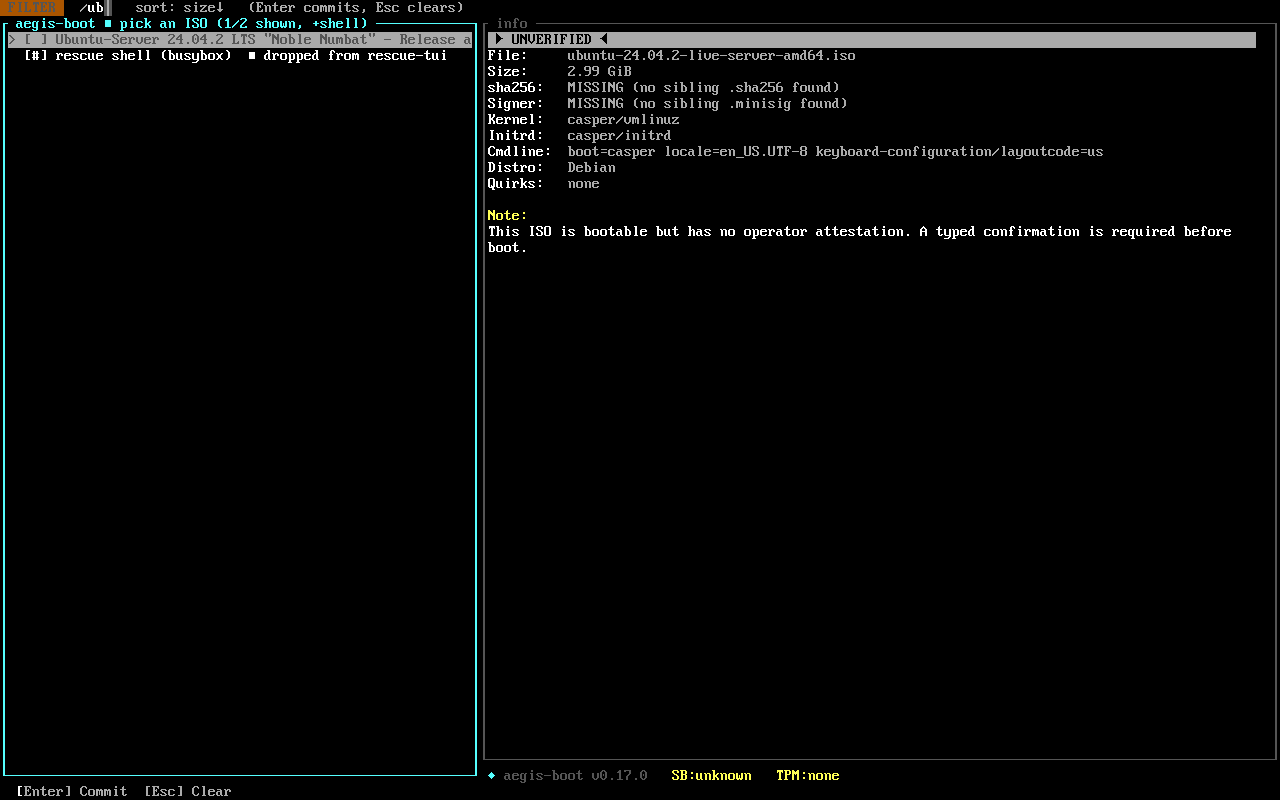
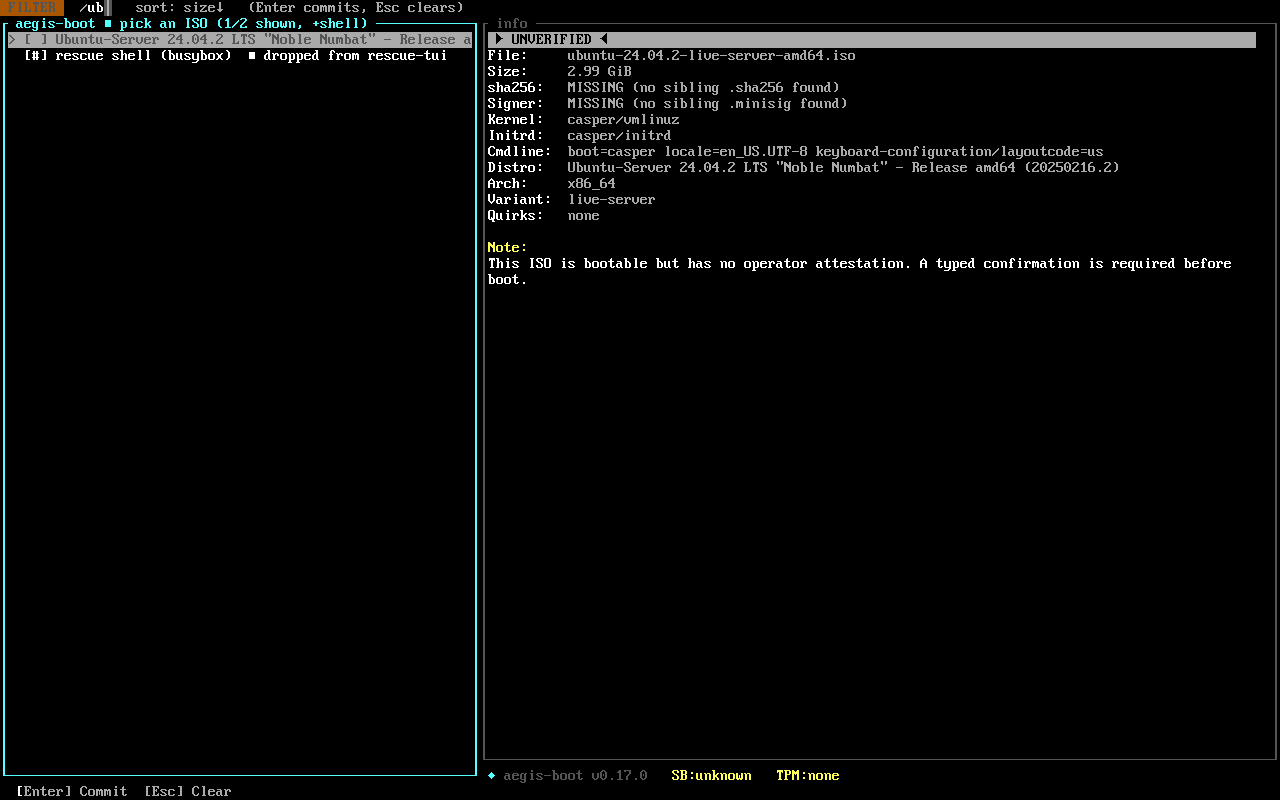
feat(rescue-tui): info pane shows pretty_name, Arch, Variant for boot confirmation
Operator feedback (during the TUI layout pass): "I'm ok with the info
pane including the OS information about the selected ISO like Distro
version etc so it's easier to ensure you selected the right one like
x86 vs ARM etc — also since it can display a lot more information
vertically."

This PR enriches `info_pane_iso_lines` with three additions:

1. **Distro** line now prefers `iso.pretty_name` (parsed by iso-probe
   from `/etc/os-release` / `/.disk/info` / `/etc/alpine-release`,
   #119) over the bare `Distribution::Variant` debug label. Operators
   see "Ubuntu 24.04.2 LTS (Noble Numbat) - Release amd64
   (20250216.2)" instead of "Ubuntu". Falls back to the enum name
   when pretty_name is None (older installers, unfamiliar layouts).

2. **Arch** line — new. Parses x86_64 / arm64 / riscv64 / ppc64le /
   s390x / i686 from the ISO filename. Catches "I picked the arm64
   build instead of the amd64" pre-kexec instead of after a failed
   boot. Order matters: aarch64/arm64 matches before arm; x86 only
   matches after x86_64/amd64/x64 are checked.

3. **Variant** line — new. Parses live-server / desktop / netinst /
   minimal / standard / extended / workstation / etc. from the
   filename. Distinguishes "won't actually install" live images from
   installer ISOs (#131) — useful pre-boot signal.

Tests:
- arch_from_iso_filename_recognizes_common_tokens covers 10
  representative filenames (Ubuntu live-server, Alpine, Debian
[…]

diff --git a/crates/rescue-tui/src/render.rs b/crates/rescue-tui/src/render.rs
@@ -1048,7 +1048,29 @@ fn info_pane_iso_lines<'a>(
         "Cmdline:  ",
         iso.cmdline.clone().unwrap_or_else(|| "(none)".to_string()),
     ));
-    lines.push(labeled("Distro:   ", format!("{:?}", iso.distribution)));
+    // Distro: prefer the parsed pretty_name (e.g. "Ubuntu 24.04.2 LTS
+    // (Noble Numbat)") when iso-probe found an /etc/os-release or
+    // /.disk/info; fall back to the bare enum name otherwise.
+    // Operators boot-confirming "is this the right ISO?" need the
+    // version, not just the family. (#119, info-pane-richer-os-metadata)
+    let distro_text = iso
+        .pretty_name
+        .clone()
+        .unwrap_or_else(|| format!("{:?}", iso.distribution));
+    lines.push(labeled("Distro:   ", distro_text));
+    // Architecture parsed from the ISO filename — caught x86_64 vs
+    // arm64 boot mistakes before kexec instead of after. Kept on a
+    // dedicated line so the eye lands on it without parsing the
+    // pretty_name string.
+    if let Some(arch) = arch_from_iso_filename(&iso.iso_path) {
+        lines.push(labeled("Arch:     ", arch.to_string()));
+    }
+    // Variant (live-server, desktop, minimal, netinst, …) parsed
+    // from the ISO filename. Distinguishes a "won't actually install"
+    // live image from an installer ISO that can erase disks (#131).
+    if let Some(variant) = variant_from_iso_filename(&iso.iso_path) {
+        lines.push(labeled("Variant:  ", variant.to_string()));
+    }
     let qs = quirks_summary(iso);
     lines.push(labeled(
         "Quirks:   ",
@@ -1273,6 +1295,73 @@ fn filename_str(p: &std::path::Path) -> String {
         || p.display().to_string(),
         |n| n.to_string_lossy().into_owned(),
     )
+}
+
+/// Parse the CPU architecture token from an ISO filename. Distros
+/// embed the architecture directly in their release filenames
+/// (`ubuntu-24.04-amd64.iso`, `alpine-3.20-x86_64.iso`,
+/// `debian-13-arm64.iso`), so a substring match against the canonical
+/// tokens recovers it without mounting the ISO.
+///
+/// Returns the canonicalized architecture name (`x86_64`, `arm64`,
+/// `i686`, `riscv64`, `ppc64le`) or `None` if the filename doesn't
+/// match a known token. Order matters: `aarch64` matches before
+/// `arm` so the more specific variant wins.
+fn arch_from_iso_filename(p: &std::path::Path) -> Option<&'static str> {
+    let name = p.file_name().and_then(|n| n.to_str())?.to_ascii_lowercase();
+    // Most specific matches first so e.g. `arm64` doesn't get caught
+    // by an earlier `arm` test.
+    if name.contains("x86_64") || name.contains("amd64") || name.contains("x64") {
+        Some("x86_64")
+    } else if name.contains("aarch64") || name.contains("arm64") {
+        Some("arm64")
+    } else if name.contains("riscv64") {
+        Some("riscv64")
+    } else if name.contains("ppc64le") {
+        Some("ppc64le")
+    } else if name.contains("s390x") {
+        Some("s390x")
+    } else if name.contains("i686") || name.contains("i386") || name.contains("x86") {
+        Some("i686")
+    } else {
+        None
+    }
+}
+
+/// Parse the install/boot variant from an ISO filename. Distros use
+/// a small vocabulary of variant tags (`live`, `live-server`,
+/// `desktop`, `netinst`, `minimal`, `standard`, `extended`,
+/// `dvd`, `Workstation`, …) that operators recognize at a glance.
+/// Surfacing this on the info pane catches "I picked the desktop
+/// build instead of the netinst" mistakes pre-kexec.
+///
+/// Returns a short canonical token or `None` if the filename doesn't
+/// match.
+fn variant_from_iso_filename(p: &std::path::Path) -> Option<&'static str> {
+    let name = p.file_name().and_then(|n| n.to_str())?.to_ascii_lowercase();
+    // Order matters — "live-server" must match before bare "live",
+    // "netinst" before "net", etc.
+    let candidates = [
+        ("live-server", "live-server"),
+        ("liveserver", "live-server"),
+        ("netinst", "netinst"),
+        ("netboot", "netboot"),
+        ("minimal", "minimal"),
+        ("workstation", "workstation"),
+        ("desktop", "desktop"),
+        ("server", "server"),
+        ("standard", "standard"),
+        ("extended", "extended"),
+        ("rescue", "rescue"),
+        ("dvd", "dvd"),
+        ("live", "live"),
+    ];
+    for (needle, label) in candidates {
+        if name.contains(needle) {
+            return Some(label);
+        }
+    }
+    None
 }
 
 /// Short verification summary for the info pane's sha256 row. Avoids
@@ -2120,6 +2209,66 @@ mod tests {
         );
         // The explanatory parenthetical must still trail the token.
         assert!(s.contains("no sibling .sha256 found"));
+    }
+
+    #[test]
+    fn arch_from_iso_filename_recognizes_common_tokens() {
+        use std::path::Path;
+        let cases = [
+            ("ubuntu-24.04.2-live-server-amd64.iso", Some("x86_64")),
+            ("alpine-3.20.3-x86_64.iso", Some("x86_64")),
+            ("debian-13.0.0-amd64-netinst.iso", Some("x86_64")),
+            ("ubuntu-24.04.2-live-server-arm64.iso", Some("arm64")),
+            ("alpine-3.20.3-aarch64.iso", Some("arm64")),
+            ("Fedora-Workstation-Live-x86_64-41-1.4.iso", Some("x86_64")),
+            ("debian-13-riscv64-netinst.iso", Some("riscv64")),
+            ("debian-12-i386-netinst.iso", Some("i686")),
+            ("Win11_25H2_English_x64_v2.iso", Some("x86_64")),
+            ("custom-build.iso", None),
+        ];
+        for (name, want) in cases {
+            assert_eq!(arch_from_iso_filename(Path::new(name)), want, "{name}");
+        }
+    }
+
+    #[test]
+    fn variant_from_iso_filename_recognizes_common_tokens() {
+        use std::path::Path;
+        let cases = [
+            ("ubuntu-24.04.2-live-server-amd64.iso", Some("live-server")),
+            ("ubuntu-22.04-desktop-amd64.iso", Some("desktop")),
+            ("debian-13.0.0-amd64-netinst.iso", Some("netinst")),
+            ("alpine-3.20.3-standard-x86_64.iso", Some("standard")),
+            ("alpine-3.20.3-extended-x86_64.iso", Some("extended")),
+            (
+                "Fedora-Workstation-Live-x86_64-41-1.4.iso",
+                Some("workstation"),
+            ),
+            ("ubuntu-25.04-live-amd64.iso", Some("live")),
+            ("custom-build.iso", None),
+        ];
+        for (name, want) in cases {
+            assert_eq!(variant_from_iso_filename(Path::new(name)), want, "{name}");
+        }
+    }
+
+    #[test]
+    fn info_pane_surfaces_arch_and_variant_for_real_filenames() {
+        let mut iso = fake_iso("ubuntu");
+        iso.iso_path =
+            std::path::PathBuf::from("/run/media/aegis-isos/ubuntu-24.04.2-live-server-amd64.iso");
+        iso.pretty_name = Some("Ubuntu 24.04.2 LTS (Noble Numbat)".to_string());
+        let state = AppState::new(vec![iso]);
+        let s = render_to_string(&state);
+        // pretty_name surfaces on the Distro line.
+        assert!(
+            s.contains("Ubuntu 24.04.2 LTS"),
+            "expected pretty_name on Distro line: {s}"
+        );
+        // Architecture parsed from the filename.
+        assert!(s.contains("x86_64"), "expected Arch row: {s}");
+        // Variant parsed from the filename.
+        assert!(s.contains("live-server"), "expected Variant row: {s}");
     }
 
     #[test]
